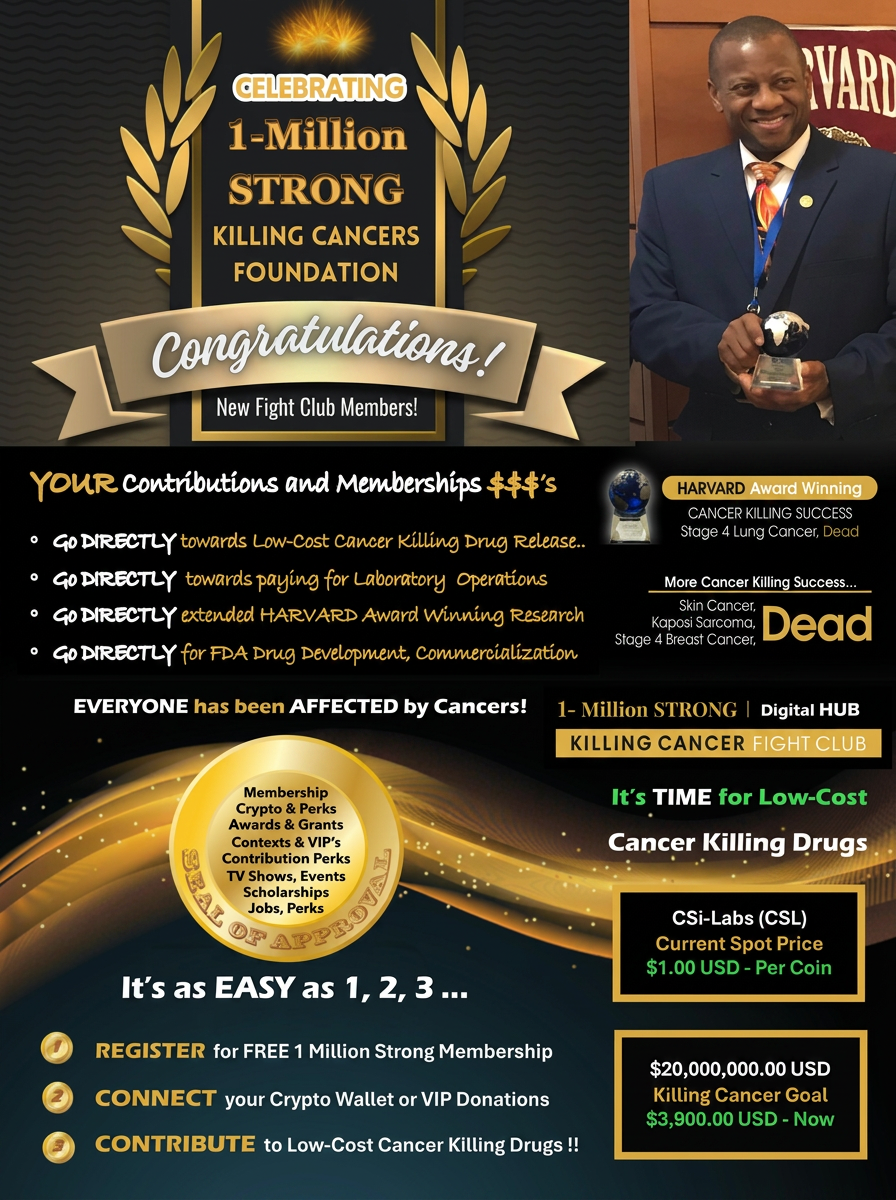
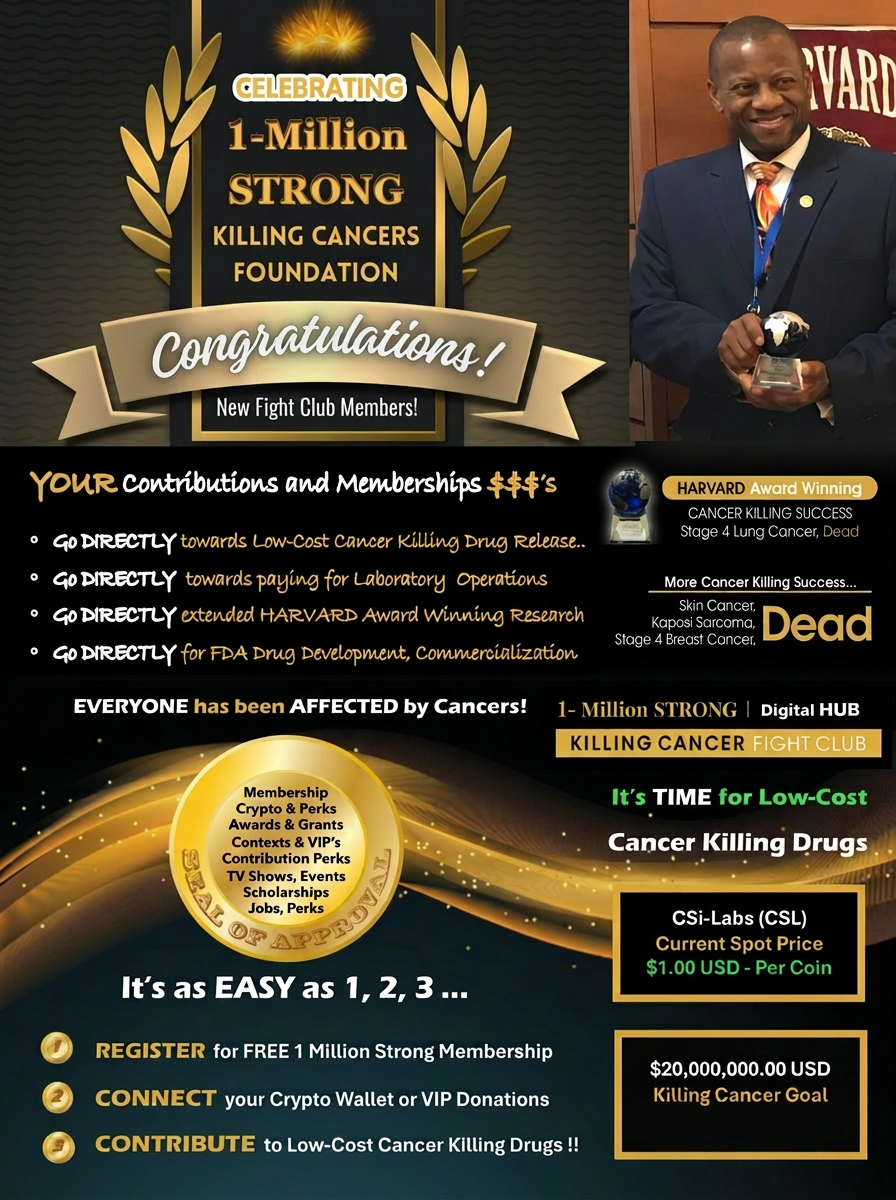
Changes

diff --git a/.lovable/plan.md b/.lovable/plan.md
@@ -1,9 +1,13 @@
-## Change
-Remove the `pt-[20%]` top padding from the hero panel container in `src/components/Hero/FightClubHeroPanel.tsx` (line 8). That padding was added earlier to push the image down and is the source of the gap between the navigation bar and the hero image.
+## Goal
+The "$3,900.00 USD – Now" text is **baked into the hero image file** (`src/assets/hero/fight-club-hero.png`), not rendered by the page. It needs to be edited out of the image itself.
 
-```tsx
-<div className="w-full">
-```
+## Change
+Use the `imagegen--edit_image` tool (Nano Banana) to remove only the "$3,900.00 USD - Now" line from inside the dark "Killing Cancer Goal" panel on the right side of the image. Everything else — the "$20,000,000.00 USD" headline, the "Killing Cancer Goal" subtitle, the panel border, and the rest of the composition — stays exactly as it is.
+
+- Input: `src/assets/hero/fight-club-hero.png`
+- Output: overwrite same path so all existing imports continue to work
+- Prompt focuses on a clean removal, matching the surrounding dark panel background, no relayout of other text.
 
 ## Verification
-Reload `/` and confirm the hero image sits flush below the nav bar.
+- Reload `/` and visually confirm the dark panel now shows only the $20M goal + "Killing Cancer Goal", with the "$3,900.00 USD – Now" line cleanly removed and no artifacts.
+- If the result has artifacts or accidentally alters other text, re-run with a tighter prompt or revert.
